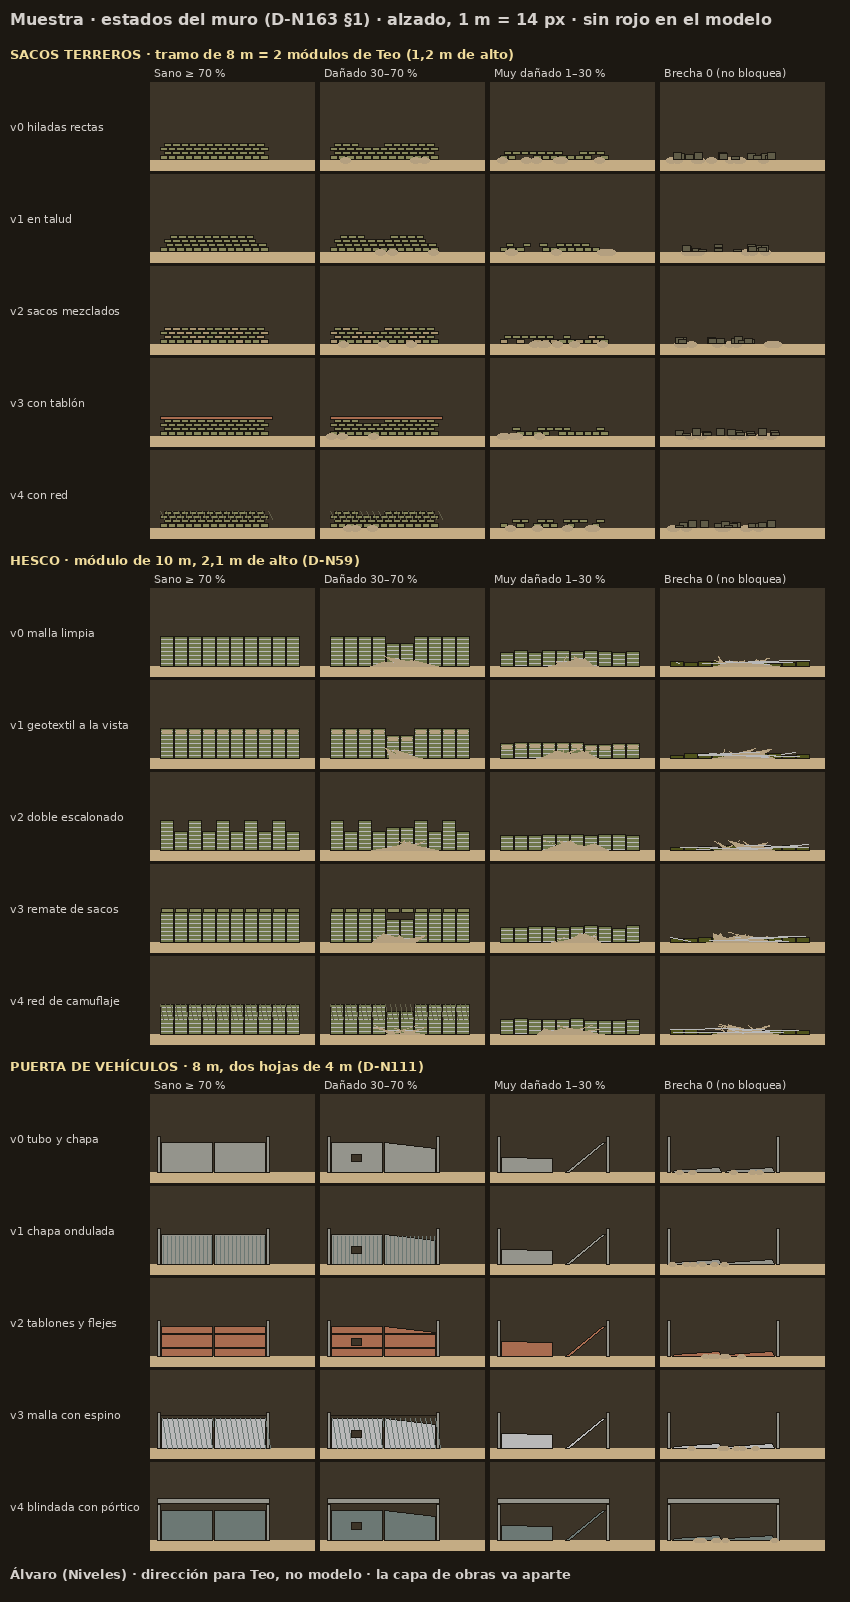
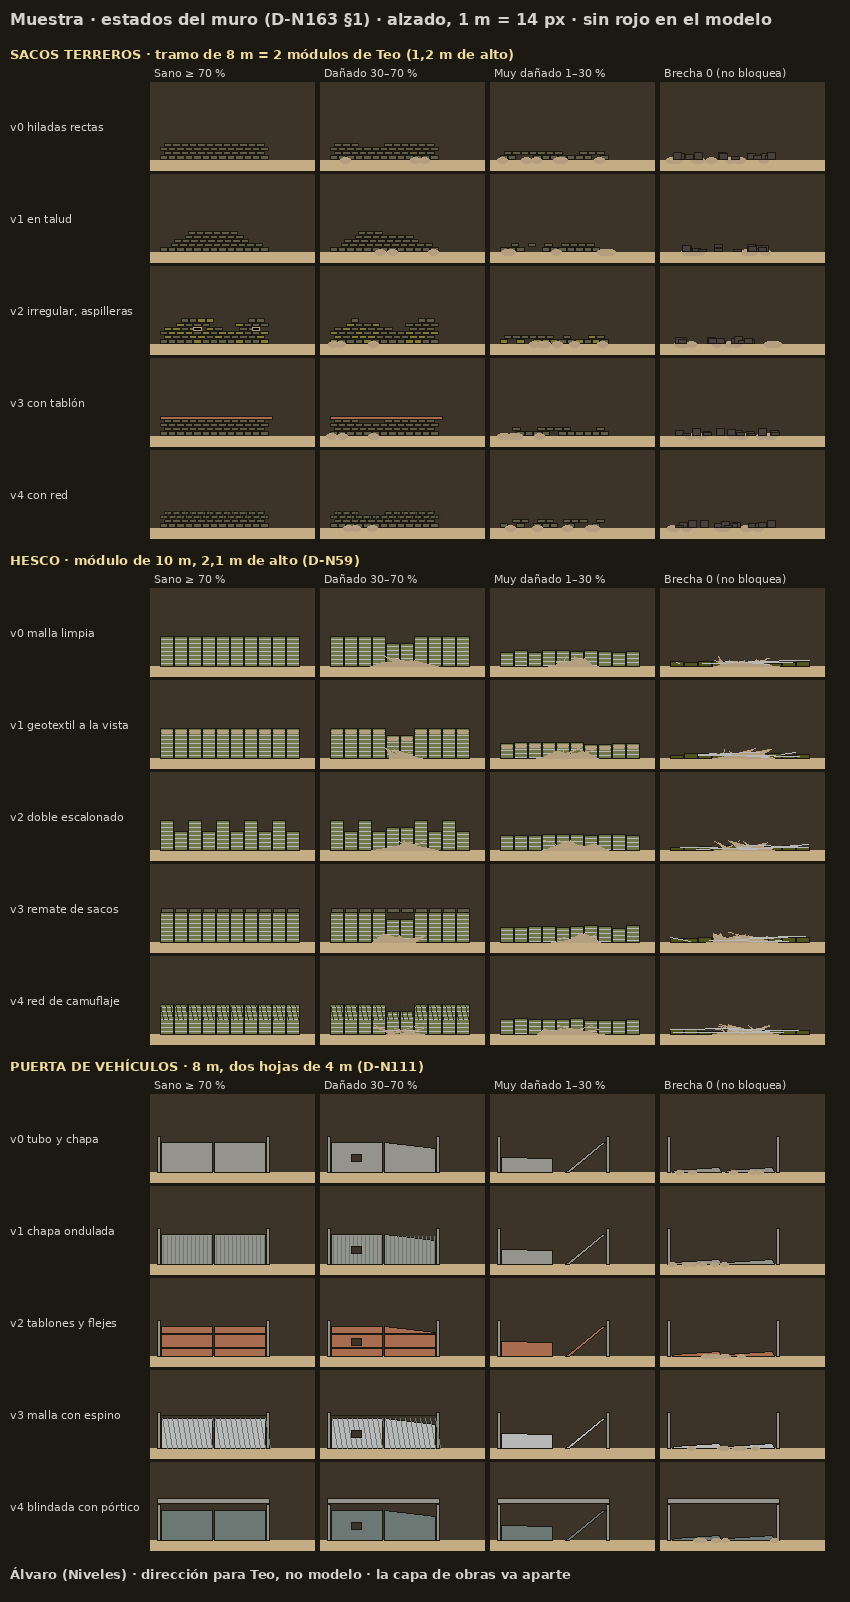
Niveles: muestra del muro v2 (sacos en 605c48, siluetas distintas en v0-v2), según Lucía
Claude-Session: https://claude.ai/code/session_01A4RyjScdBuNc7GbjKkppYP

diff --git a/docs/niveles/herramientas/muestra_estados_muro.py b/docs/niveles/herramientas/muestra_estados_muro.py
@@ -4,9 +4,9 @@ from PIL import Image, ImageDraw, ImageFont
 K=14; CW,CH=170,92; LX=150; TOP=40
 Fp="/usr/share/fonts/truetype/dejavu/DejaVuSans.ttf"; Fb="/usr/share/fonts/truetype/dejavu/DejaVuSans-Bold.ttf"
 F=ImageFont.truetype(Fp,11); FB=ImageFont.truetype(Fb,13); FT=ImageFont.truetype(Fb,16)
-SACO="#88885c"; SACOS="#605c48"; REL="#b4a080"; HES="#70784c"; HESS="#50541c"; MAL="#b8b8b8"; SUELO="#c4ac84"; OSC="#1c1812"; CHAPA="#94948c"; MAD="#a86c50"; CAM="#605c48"
+SACO="#605c48"; SACOS="#48403c"; REL="#b4a080"; HES="#70784c"; HESS="#50541c"; MAL="#b8b8b8"; SUELO="#c4ac84"; OSC="#1c1812"; CHAPA="#94948c"; MAD="#a86c50"; CAM="#303424"; SACOM="#847c34"
 ESTADOS=["Sano ≥ 70 %","Dañado 30–70 %","Muy dañado 1–30 %","Brecha 0 (no bloquea)"]
-bloques=[("SACOS TERREROS · tramo de 8 m = 2 módulos de Teo (1,2 m de alto)",["v0 hiladas rectas","v1 en talud","v2 sacos mezclados","v3 con tablón","v4 con red"]),
+bloques=[("SACOS TERREROS · tramo de 8 m = 2 módulos de Teo (1,2 m de alto)",["v0 hiladas rectas","v1 en talud","v2 irregular, aspilleras","v3 con tablón","v4 con red"]),
          ("HESCO · módulo de 10 m, 2,1 m de alto (D-N59)",["v0 malla limpia","v1 geotextil a la vista","v2 doble escalonado","v3 remate de sacos","v4 red de camuflaje"]),
          ("PUERTA DE VEHÍCULOS · 8 m, dos hojas de 4 m (D-N111)",["v0 tubo y chapa","v1 chapa ondulada","v2 tablones y flejes","v3 malla con espino","v4 blindada con pórtico"])]
 W=LX+4*CW+20; H=2000
@@ -18,15 +18,23 @@ def cell(ox,oy,mat,v,e,rnd):
     x0=ox+10; L=(8 if mat==0 else 10 if mat==1 else 8)*K*1.0; L=min(L,CW-26)
     if mat==0:   # sacos: hiladas de 0,6 × 0,3 m
         filas=4; hl=0.3*K; sl=0.6*K
+        if v==1: filas=5                                   # talud: base más ancha y una hilada más
+        if v==2: filas=6                                   # parapeto irregular: de 0,9 a 1,8 m
         alt={0:filas,1:filas,2:2,3:0}[e]
+        perfil=[4,4,6,6,6,6,4,3,3,5,6,6,6,6,4]             # v2: altura irregular por columna
         for f in range(alt):
-            off=(sl/2 if f%2 else 0)+ (f*0.15*K if v==1 else 0)
-            n=int((L-off- (f*0.3*K if v==1 else 0))//sl)
+            if v==1: off=f*0.5*K+(sl/2 if f%2 else 0); fin=L-f*0.5*K   # 0,5 m de retranqueo por hilada a cada lado
+            else:    off=(sl/2 if f%2 else 0); fin=L
+            n=int((fin-off)//sl)
             for i in range(n):
-                if e==1 and f==filas-1 and 3<=i<=5: continue          # muesca en la fila de arriba
+                if v==2 and f>=perfil[i%len(perfil)]: continue
+                if v==2 and f==3 and i in (4,11) and e==0: continue        # huecos de tirador (aspilleras)
+                if e==1 and f==alt-1 and 3<=i<=5: continue          # muesca en la fila de arriba
                 if e==2 and rnd.random()<0.25: continue
-                c=SACO if not (v==2 and rnd.random()<0.35) else "#a89470"
+                c=SACO if not (v==2 and rnd.random()<0.35) else SACOM
                 R(x0+off+i*sl,gy-(f+1)*hl,x0+off+(i+1)*sl-1,gy-f*hl-1,c)
+        if v==2 and e==0:
+            for i in (4,11): R(x0+i*sl,gy-4*hl,x0+(i+1)*sl-1,gy-3*hl-1,"#000000",REL)
         if v==3 and e<2: R(x0,gy-filas*hl-3,x0+L,gy-filas*hl,MAD)
         if v==4 and e<2:
             for i in range(0,int(L),6): d.line([x0+i,gy-filas*hl,x0+i+4,gy-filas*hl+8],fill=CAM)
